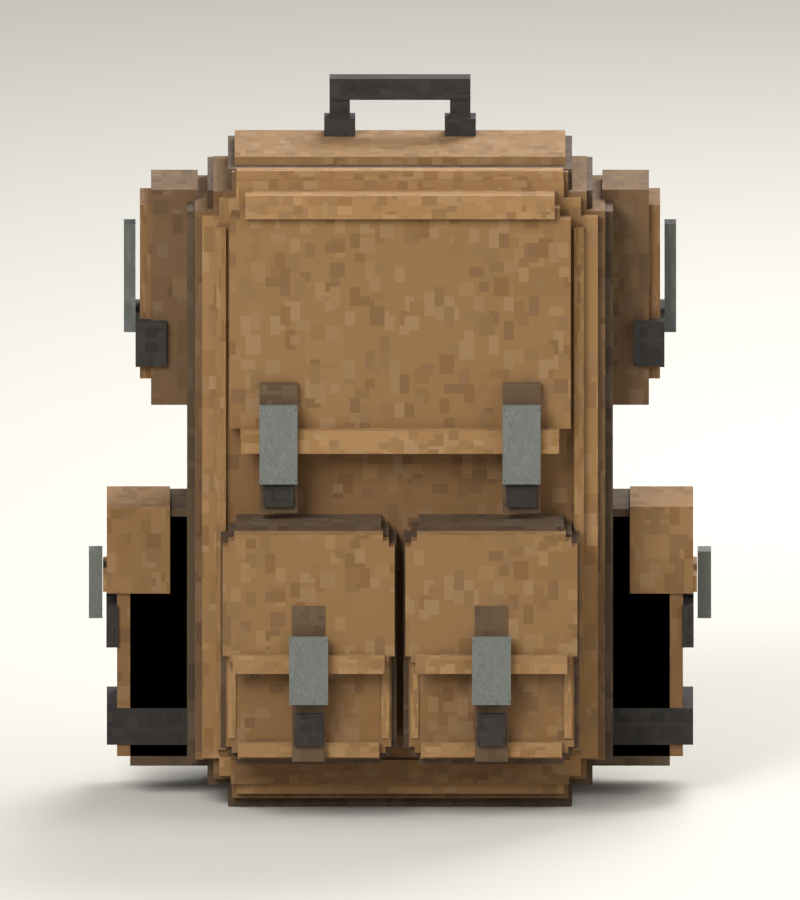
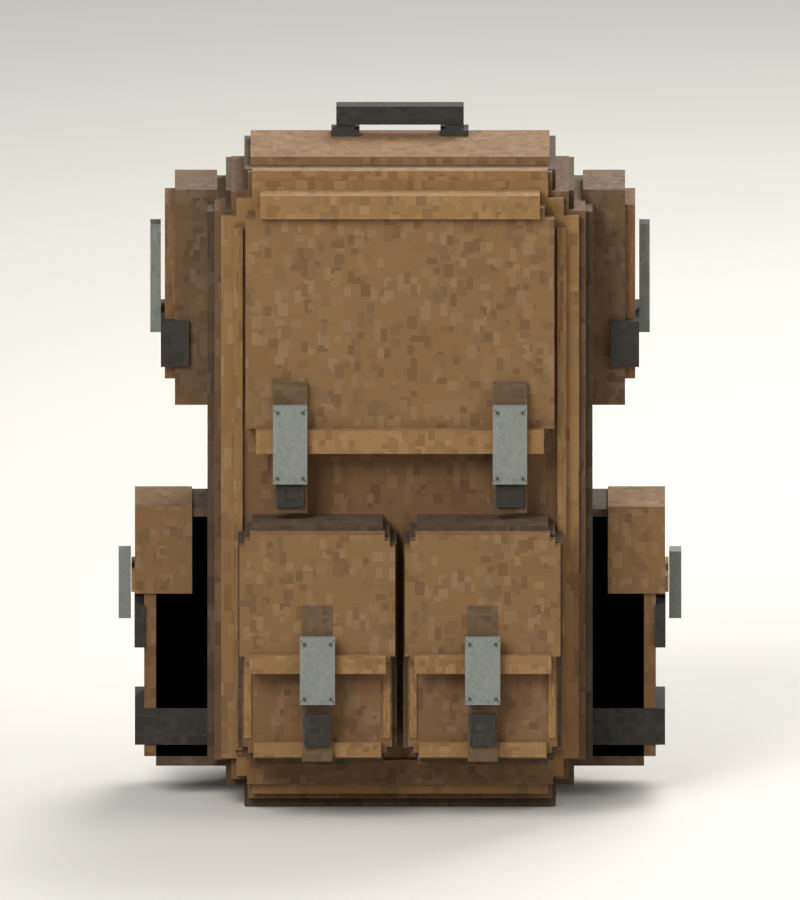
chore(project): apply updates to 5 project files
Modified: 5.
Text lines: +22 / -14; binary files: 3.
- Modify: "blender/characters/soldier/assets/backpack_v001/backpack_atlas.png" (binary)
- Modify: "blender/characters/soldier/assets/backpack_v001/build_backpack.py"
- Modify: "blender/characters/soldier/assets/backpack_v001/make_atlas.py"
- Modify: "blender/characters/soldier/assets/backpack_v001/renders/Front.png" (binary)
- Modify: "blender/characters/soldier/assets/backpack_v001/renders/Front_3Q.png" (binary)

diff --git a/blender/characters/soldier/assets/backpack_v001/build_backpack.py b/blender/characters/soldier/assets/backpack_v001/build_backpack.py
@@ -158,6 +158,13 @@ for sign in [-1,1]:
     for edge in [-1,1]:
         box('pouch side seam',(x+edge*.079,-.282,.196),(.008,.011,.171),'canvas_edge')
 
+# Flush squared rivet heads on the four front tabs; no loose high-poly fasteners.
+for sign in [-1,1]:
+    for z,cx,cy,w,h in [(.395,sign*.125,-.249,.039,.077),(.182,sign*.094,-.331,.040,.066)]:
+        for dx in [-1,1]:
+            for dz in [-1,1]:
+                box('front tab rivet',(cx+dx*(w/2-.005),cy,z+dz*(h/2-.006)),(.0028,.002,.0028),'steel_edge',True)
+
 # Side sleeves, compression webbing, and lower accessory pockets.
 for sign in [-1,1]:
     x=sign*.232
@@ -184,7 +191,8 @@ for sign in [-1,1]:
     box('back padding face '+str(sign),(x,.171,.372),(.053,.015,.525),'canvas_warm')
     box('upper back dark strap '+str(sign),(x,.184,.548),(.077,.017,.047),'leather')
     box('adjustment webbing '+str(sign),(x,.188,.226),(.040,.020,.236),'leather')
-    frame('back shoulder adjuster '+str(sign),x,.210,.344,.074,.074,.011)
+    box('buckle backing webbing '+str(sign),(x,.294,.344),(.050,.020,.067),'leather')
+    frame('back shoulder adjuster '+str(sign),x,.310,.344,.074,.074,.011)
     # Shoulder loop is unsupported equipment geometry, not attached to any rig.
     path=[(.119,.633),(.174,.602),(.228,.536),(.266,.432),(.278,.307),(.252,.205),(.201,.135),(.118,.104)]
     ribbon('outer shoulder loop '+str(sign),sign*.135,path,.058,.023,'webbing_brown')
@@ -196,12 +204,12 @@ frame('waist buckle',0,.232,.126,.084,.071,.012)
 
 # Squared carry handle and its short mount blocks.
 for sign in [-1,1]:
-    box('handle mount '+str(sign),(sign*.062,.057,.665),(.032,.046,.033),'leather')
-    box('handle upright '+str(sign),(sign*.062,.057,.690),(.021,.032,.040),'leather')
-box('top carry handle',(0,.057,.710),(.145,.035,.021),'leather')
+    box('handle mount '+str(sign),(sign*.062,.057,.660),(.032,.046,.020),'leather')
+    box('handle upright '+str(sign),(sign*.062,.057,.673),(.021,.032,.025),'leather')
+box('top carry handle',(0,.057,.684),(.145,.035,.018),'leather')
 
 # Reference side silhouette is relatively compact; retain real depth with broad straps.
-vertices=[(x*.94,y*.60,z) for x,y,z in vertices]
+vertices=[(x*.85,y*.60,z) for x,y,z in vertices]
 mesh=bpy.data.meshes.new('BPK_Standalone backpack mesh')
 mesh.from_pydata(vertices,[],faces);mesh.update()
 obj=bpy.data.objects.new('BPK_Backpack_v001',mesh);asset.objects.link(obj)
@@ -223,7 +231,7 @@ for poly,style in zip(mesh.polygons,styles):
     span=[max(hi[i]-lo[i],1e-5) for i in range(2)]
     rng=random.Random(part+str(poly.index//6))
     # Keep a consistent coarse pixel density rather than stretching a full tile per small box.
-    scale=[min(.98,max(.08,v/(.0048*rw))) for v in span]
+    scale=[min(.98,max(.08,v/(.0032*rw))) for v in span]
     offset=[rng.uniform(0,1-scale[i]) for i in range(2)]
     if is_plate:scale=[.98,.98];offset=[.01,.01]
     for li in poly.loop_indices:

diff --git a/blender/characters/soldier/assets/backpack_v001/make_atlas.py b/blender/characters/soldier/assets/backpack_v001/make_atlas.py
@@ -48,18 +48,18 @@ def add(name, color, seed, size=96, kind='canvas'):
     x0 += size+4
     row_h = max(row_h,size)
 
-add('canvas', (105,76,43), 12, 128)
-add('canvas_warm', (116,83,46), 33, 128)
-add('canvas_flap', (124,91,52), 54, 128)
-add('canvas_side', (96,70,41), 61)
-add('canvas_edge', (137,102,60), 73)
-add('canvas_shadow', (74,55,34), 84)
+add('canvas', (90,64,35), 12, 128)
+add('canvas_warm', (101,71,38), 33, 128)
+add('canvas_flap', (108,78,43), 54, 128)
+add('canvas_side', (85,61,35), 61)
+add('canvas_edge', (121,88,49), 73)
+add('canvas_shadow', (67,49,29), 84)
 add('leather', (36,32,27), 92, kind='webbing')
 add('webbing_brown', (81,62,39), 105, kind='webbing')
 add('back_pad', (66,53,37), 113, kind='webbing')
-add('steel', (112,115,110), 128, kind='metal')
+add('steel', (129,132,125), 128, kind='metal')
 add('steel_edge', (75,79,77), 139, kind='metal')
-add('buckle_plate', (119,122,116), 146, kind='plate')
+add('buckle_plate', (132,135,128), 146, kind='plate')
 atlas.save(HERE/'backpack_atlas.png')
 (HERE/'atlas_regions.json').write_text(json.dumps(regions,indent=2))
 print('Backpack atlas:', len(regions), 'original pixel-painted regions')
